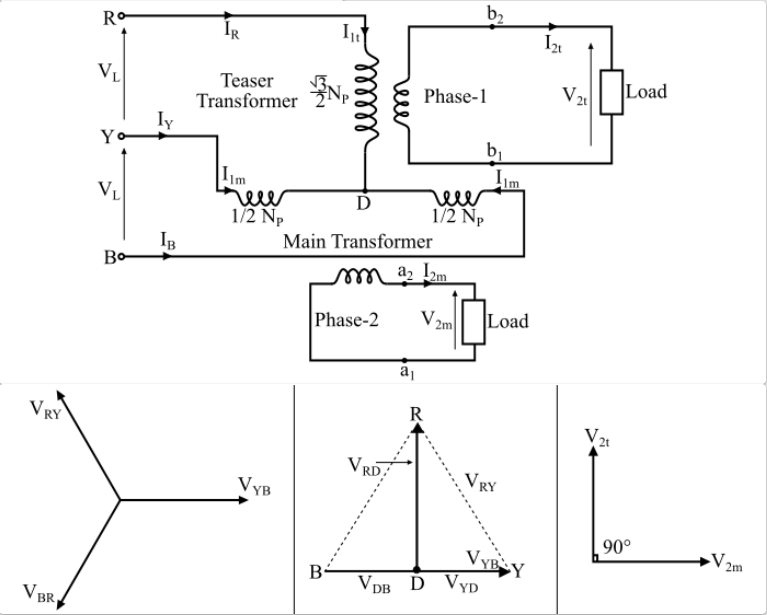
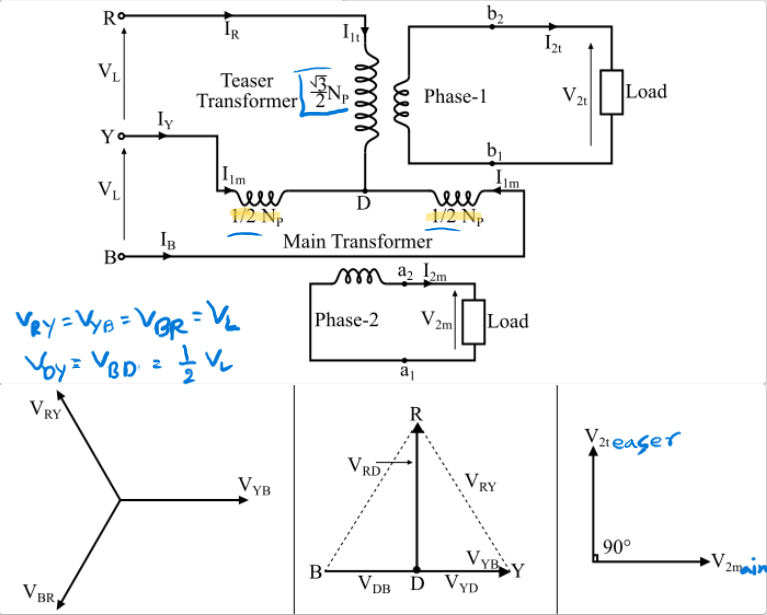
Manual

diff --git a/2-2/Machine/QnA   Transformers.md b/2-2/Machine/QnA   Transformers.md
@@ -2129,7 +2129,7 @@ $$\frac{P_A}{P_B} = \frac{I_A \cos\phi_A}{I_B \cos\phi_B}$$
 
 ---
 
-### 100. ❓Page 9, Q.4(c): Two T-connected transformer are used to supply a 440 V, 33 kVA balanced load from a balanced 3- supply of 3300 V. Calculate (i) Voltage and current rating of each coil (ii) kVA ratting of the main and teaser transformer (iii) Find the position of neutral point in teaser winding.
+### 100. ✅Page 9, Q.4(c): Two T-connected transformer are used to supply a 440 V, 33 kVA balanced load from a balanced 3- supply of 3300 V. Calculate (i) Voltage and current rating of each coil (ii) kVA ratting of the main and teaser transformer (iii) Find the position of neutral point in teaser winding.
 
 **Given Data:** $V_{L1} = 3300\text{ V}$, $V_{L2} = 440\text{ V}$, Balanced load $= 33\text{ kVA}$.
 
@@ -2297,7 +2297,7 @@ Two distinct connection schemes can transform balanced 3-phase power using only 
 
 ---
 
-### ❓109. Page 7, Q.3(b): How 3-φ, 4 wire connection can be obtained from scoot-connection? Explain with necessary circuit diagram. [Figure Involved]
+### 109. Page 7, Q.3(b): How 3-φ, 4 wire connection can be obtained from scoot-connection? Explain with necessary circuit diagram. [Figure Involved]
 
 * **Scott Connection Configuration:**
   * Uses two transformers: **Main Transformer** and **Teaser Transformer**.
@@ -2314,7 +2314,7 @@ Two distinct connection schemes can transform balanced 3-phase power using only 
 
 ---
 
-### 110. ❓Page 11, Q.4(b) (lower): Show with connection diagram how 3-φ 4-wire connection can be achieved for T-connection. [Figure Involved]
+### 110. Page 11, Q.4(b) (lower): Show with connection diagram how 3-φ 4-wire connection can be achieved for T-connection. [Figure Involved]
 
 * In a T-T connection, the neutral terminal $N$ is tapped at $\frac{1}{3}$ of the teaser winding length from the junction with the main transformer.
 * This neutral point $N$ provides equal star-line potentials ($V_{AN} = V_{BN} = V_{CN} = V_L/\sqrt{3}$), creating a completely symmetrical 3-phase 4-wire supply for mixed 3-phase industrial and 1-phase residential lighting loads.
@@ -2342,7 +2342,7 @@ Two distinct connection schemes can transform balanced 3-phase power using only 
 
 ---
 
-### 112. ✅❓Page 12, Q.4(c): Two transformers connected in open – Δ, supply a 400 kVA balanced load operating at 0.866 p.f. (lagging). The load voltage is 440 V. What is the (i) kVA supplied by each transformer? (ii) kW supplied by each transformer?
+### 112. ✅Page 12, Q.4(c): Two transformers connected in open – Δ, supply a 400 kVA balanced load operating at 0.866 p.f. (lagging). The load voltage is 440 V. What is the (i) kVA supplied by each transformer? (ii) kW supplied by each transformer?
 
 **Given Data:**
 * Load kVA = 400 kVA, $\cos\theta = 0.866\text{ lagging} \implies \theta = 30^\circ$
@@ -2351,7 +2351,8 @@ Two distinct connection schemes can transform balanced 3-phase power using only 
 * In open delta, each transformer carries the full line current:
   $$S_1 = S_2 = \frac{S_{\text{total}}}{\sqrt{3}} = \frac{400}{\sqrt{3}} \approx \mathbf{230.94\text{ kVA}}$$
 
-**Part (ii): kW Supplied by Each Transformer**
+**Part (ii): kW Supplied by Each Transformer**:
+**Unequal Active Power (kW):** The open connection creates an internal phase shift of $\pm 30^\circ$
 * The operating power factors of the two units are:
   $$\cos\phi_1 = \cos(\theta - 30^\circ) = \cos(30^\circ - 30^\circ) = \cos(0^\circ) = \mathbf{1.0}$$
   $$\cos\phi_2 = \cos(\theta + 30^\circ) = \cos(30^\circ + 30^\circ) = \cos(60^\circ) = \mathbf{0.5}$$
@@ -2366,7 +2367,7 @@ Two distinct connection schemes can transform balanced 3-phase power using only 
 
 ---
 
-### 113. ❓Page 12, Q.3(c): Two 20 kVA transformers are connected in open - Δ to supply 230 V balanced 3-φ load. (i) what is the total load that can be supplied without overloading either transformer? (ii) when the Δ is closed by the addition of a third 20 kVA transformer, what total load can now be supplied?
+### 113. Page 12, Q.3(c): Two 20 kVA transformers are connected in open - Δ to supply 230 V balanced 3-φ load. (i) what is the total load that can be supplied without overloading either transformer? (ii) when the Δ is closed by the addition of a third 20 kVA transformer, what total load can now be supplied?
 
 **Part (i): Maximum Load in Open-Delta**
 $$S_{\text{V}} = \sqrt{3} \times S_{\text{unit}} = \sqrt{3} \times 20\text{ kVA} \approx \mathbf{34.64\text{ kVA}}$$
@@ -2380,7 +2381,7 @@ $$S_{\Delta} = 3 \times S_{\text{unit}} = 3 \times 20\text{ kVA} = \mathbf{60.00
 
 ---
 
-### 114. ❓Page 12, Q.5(a): Explain with necessary diagram, How 3-Φ, 4-wire connection can be used in T-connection. [Figure Involved]
+### 114. Page 12, Q.5(a): Explain with necessary diagram, How 3-Φ, 4-wire connection can be used in T-connection. [Figure Involved]
 
 * The primary and secondary windings are connected in T-configuration.
 * Tapping the teaser winding at $\frac{1}{3}$ height from the junction with the main transformer creates the neutral terminal $N$.
@@ -2403,7 +2404,7 @@ $$S_{\Delta} = 3 \times S_{\text{unit}} = 3 \times 20\text{ kVA} = \mathbf{60.00
 
 ---
 
-### 116. ❓Page 44, Q.2(c): Two transformers are required for a Scott connection operating from a 400V,3-Φ supply for supplying two 1-Φ furnaces at 220V on the 2-Φ side. If the total output is 150kVA.Calculate the secondary to primary turn ratio and the winding currents of each transformer.
+### 116. ✅Page 44, Q.2(c): Two transformers are required for a Scott connection operating from a 400V,3-Φ supply for supplying two 1-Φ furnaces at 220V on the 2-Φ side. If the total output is 150kVA.Calculate the secondary to primary turn ratio and the winding currents of each transformer.
 
 **Given Data:**
 * 3-Phase supply: $V_{L1} = 400\text{ V}$
@@ -2435,7 +2436,7 @@ $$S_{\Delta} = 3 \times S_{\text{unit}} = 3 \times 20\text{ kVA} = \mathbf{60.00
 
 ---
 
-### 117. ❓Page 45, Q.4(c): Two 25 kVA transformer are connected in open-Δ to supply a 220V balanced 3-Φ load. (i) What is the total load that can be supplied without overloading either transformer? (ii) When the Δ is closed by the addition of a third 25 kVA transformer, what total load can now be supplied?
+### 117. Page 45, Q.4(c): Two 25 kVA transformer are connected in open-Δ to supply a 220V balanced 3-Φ load. (i) What is the total load that can be supplied without overloading either transformer? (ii) When the Δ is closed by the addition of a third 25 kVA transformer, what total load can now be supplied?
 
 **Part (i): Maximum Load in Open-Delta**
 $$S_{\text{V}} = \sqrt{3} \times 25\text{ kVA} \approx \mathbf{43.30\text{ kVA}}$$

diff --git a/2-2/Machine/A.N.  Transformer.md b/2-2/Machine/A.N.  Transformer.md
@@ -19,7 +19,7 @@
 ![[Pasted image 20261024204228.png]]
 
 ![[Pasted image 20261025005420.png]]
-
+![[Pasted image 20261025143750.png]]
 * **Real Transformer Equations:**
   $$\vec{V_1} = -\vec{E_1} + \vec{I_1} R_1 + j \vec{I_1} X_1$$
   $$\vec{V_2} = \vec{E_2} - \vec{I_2} R_2 - j \vec{I_2} X_2$$
@@ -329,3 +329,114 @@ The active real power ($\text{kW}$) delivered by each transformer connected to a
 $$P = V \times I \times \cos\phi$$
 
 $$\frac{P_A}{P_B} = \frac{I_A \cos\phi_A}{I_B \cos\phi_B}$$
+
+
+#### Step 1: Main Transformer Primary Voltage ($V_{YB}$)
+
+- **Applied Line Voltage:**
+    
+      
+    
+    $$V_{\text{main}} = V_{YB} = V_L$$
+    
+- **Center Tap Division at Point $D$:**
+    
+      
+    
+    $$V_{YD} = V_{DB} = \frac{1}{2} V_{YB} = \frac{1}{2} V_L$$
+    
+
+#### Step 2: Teaser Transformer Primary Voltage ($V_{RD}$)
+
+- **Pythagorean Relation in Right Triangle $\Delta RDY$:**
+    
+      
+    
+    $$V_{RY}^2 = V_{YD}^2 + V_{RD}^2$$
+    
+- **Substitution:**
+    
+      
+    
+    $$V_L^2 = \left(\frac{1}{2} V_L\right)^2 + V_{RD}^2$$
+    
+- **Algebraic Simplification:**
+    
+      
+    
+    $$V_L^2 = \frac{1}{4} V_L^2 + V_{RD}^2$$
+    
+    $$V_{RD}^2 = V_L^2 - \frac{1}{4} V_L^2 = \frac{3}{4} V_L^2$$
+    
+- **Primary Voltage Magnitude:**
+    
+      
+    
+    $$V_{RD} = \sqrt{\frac{3}{4} V_L^2} = \frac{\sqrt{3}}{2} V_L \approx 0.866 \, V_L$$
+    
+
+#### Step 3: Phase Angle Orthogonality ($90^\circ$ Shift)
+
+- **Geometric Perpendicularity:**
+    
+      
+    
+    $$\angle RDY = \angle RDB = 90^\circ$$
+    
+- **Phasor Representation:**
+    
+      
+    
+    $$\vec{V}_{YB} = V_L \angle 0^\circ$$
+    
+    $$\vec{V}_{RD} = \left(\frac{\sqrt{3}}{2} V_L\right) \angle 90^\circ = j \frac{\sqrt{3}}{2} V_L$$
+    
+- **Orthogonal Relationship:**
+    
+      
+    
+    $$\vec{V}_{RD} \perp \vec{V}_{YB}$$
+    
+
+#### Step 4: Secondary Voltage Equalization (Turn-Ratio Adjustment)
+
+- **Main Secondary Voltage ($V_{2m}$):**
+    
+      
+    
+    $$V_{2m} = V_{YB} \left(\frac{N_S}{N_P}\right) = V_L \left(\frac{N_S}{N_P}\right)$$
+    
+- **Teaser Secondary Voltage with Uncompensated Turns ($N_P$):**
+    
+      
+    
+    $$V_{2t} = V_{RD} \left(\frac{N_S}{N_P}\right) = \left(\frac{\sqrt{3}}{2} V_L\right) \left(\frac{N_S}{N_P}\right) = \frac{\sqrt{3}}{2} V_{2m} \neq V_{2m}$$
+    
+- **Teaser Primary Turns Compensation ($N_{Pt}$):**
+    
+      
+    
+    $$N_{Pt} = \frac{\sqrt{3}}{2} N_P \approx 0.866 \, N_P$$
+    
+- **Compensated Teaser Secondary Voltage ($V_{2t}$):**
+    
+      
+    
+    $$V_{2t} = V_{RD} \left(\frac{N_S}{N_{Pt}}\right) = \left(\frac{\sqrt{3}}{2} V_L\right) \left(\frac{N_S}{\frac{\sqrt{3}}{2} N_P}\right) = V_L \left(\frac{N_S}{N_P}\right)$$
+    
+- **Final Balanced 2-Phase Conditions:**
+    
+    $$\vert{}V_{2t}\vert{} = \vert{}V_{2m}\vert{}$$
+    
+    $$\angle V_{2t} - \angle V_{2m} = 90^\circ$$
+  * Teaser primary has $86.6\%$ turns ($\frac{\sqrt{3}}{2} N_1$), connected between line $A$ and center-tap $D$.
+* **Deriving the 4th Wire (Neutral $N$):**
+  * A neutral point $N$ is located on the teaser winding at a distance of **one-third of total teaser turns up from tap $D$** (or two-thirds down from terminal $A$):
+    $$V_{AN} = \frac{2}{3} V_{\text{teaser}} = \frac{2}{3}\left(\frac{\sqrt{3}}{2} V_L\right) = \frac{V_L}{\sqrt{3}} = V_{\text{phase}}$$
+  * Bringing out a lead from $N$ provides a true balanced 4-wire neutral point for 3-phase 4-wire systems.
+  * In a T-T connection, the neutral terminal $N$ is tapped at $\frac{1}{3}$ of the teaser winding length from the junction with the main transformer.
+* This neutral point $N$ provides equal star-line potentials ($V_{AN} = V_{BN} = V_{CN} = V_L/\sqrt{3}= V_{ph}$),
+
+#### **The $\pm 30^\circ$ Phase Displacement:**
+
+- In open-delta banks supplying a balanced load with lagging angle $\theta$, the current through one transformer lags its voltage by $(\theta - 30^\circ)$, while through the other it lags by $(\theta + 30^\circ)$.
